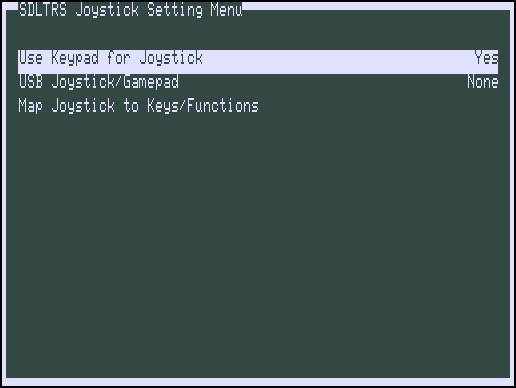
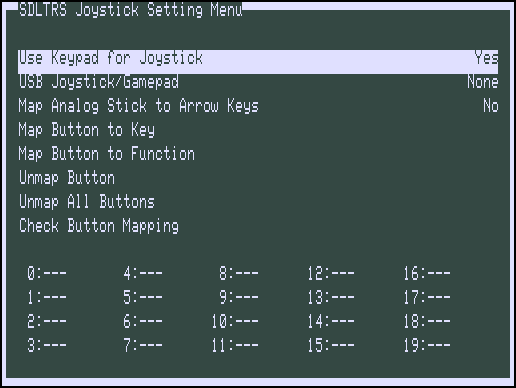
Update documentation and images

diff --git a/docs/TextGUI.html b/docs/TextGUI.html
@@ -41,14 +41,14 @@
 <p><img alt="" src="images/TextGUIMainMenu.png"></p>
 
 <p>The main menu is the entry point for the Text GUI. You may move up and down
-through the menu items using the arrow keys. The Home and End keys moves to
-the first or last menu item. Typing the first letter of a menu item marks it
-for selection. Pressing a number key from <b>0</b> to <b>9</b> jumps to the
-line in the menu. A menu item may be selected by pressing the <b>Enter</b>,
-<b>Space</b> or <b>Tab</b> key when the item is highlighted. Pressing
-<b>ESC</b> moves up a menu level (or exits the GUI if you are at the top
-level). Besides entering the GUI using <b>F7</b> or <b>Alt-M</b>, submenus may
-be entered by using the key shortcuts shown after the menu items.</p>
+through the menu items using the arrow keys. The <b>Home</b> and <b>End</b>
+keys moves to the first or last menu item. Typing the first letter of a menu
+item marks it for selection. Pressing a number key from <b>0</b> to <b>9</b>
+jumps to the line in the menu. A menu item may be selected by pressing the
+<b>Enter</b>, <b>Space</b> or <b>Tab</b> key when the item is highlighted.
+Pressing <b>ESC</b> moves up a menu level (or exits the GUI if you are at the
+top level). Besides entering the GUI using <b>F7</b> or <b>Alt-M</b>, submenus
+may be entered by using the key shortcuts shown after the menu items.</p>
 
 <h2><a name="Floppy_Disk_Management"></a><u>Floppy Disk Management</u></h2>
 
@@ -435,7 +435,7 @@ monitor.</p>
 
 <p><img alt="" src="images/TextGUIJoystickMenu.png"></p>
 
-<h3>Use Numeric Keypad for Joystick:</h3>
+<h3>Use Keypad for Joystick:</h3>
 
 <p>This item determines if the numeric keypad is used for emulation of a
 joystick.</p>
@@ -448,11 +448,11 @@ joysticks that SDL is aware of as shown below:</p>
 
 <p><img alt="" src="images/TextGUIJoystickSelectMenu.png"></p>
 
-<h3>Map Joystick to Keys/Functions:</h3>
+<h3>Map Button to Key/Function:</h3>
 
 <p><img alt="" src="images/TextGUIJoystickMap.png"></p>
 
-<p>This option allows the user to map keys or functions of SDLTRS to Joystick
+<p>These options allows the user to map keys or functions of SDLTRS to Joystick
 buttons. Use "Write Configuration File" in the <a href="#ConfigurationState">
 Configuration/State File Management</a> menu to save the mapping.</p>
 

diff --git a/docs/Options.html b/docs/Options.html
@@ -198,12 +198,12 @@ will be executed upon startup of the emulator.</p>
   <tr>
     <td><code>-huffman</code></td>
     <td>Enable emulation of the Dave Huffman (and other) memory expansion.
-        (<b>Disables "Alpha Technologies HyperMem"</b>)</td>
+        <b>Disables "Alpha Technologies HyperMem"</b>.</td>
   </tr>
   <tr>
     <td><code>-hypermem</code></td>
     <td>Enable emulation of the Alpha Technologies HyperMem memory expansion.
-        (<b>Disables "Dave Huffmann (and other)"</b>)</td>
+        <b>Disables "Dave Huffmann (and other)"</b>.</td>
   </tr>
   <tr>
     <td><code>-joysticknum num</code></td>
@@ -420,7 +420,7 @@ will be executed upon startup of the emulator.</p>
   <tr>
     <td><code>-selector</code></td>
     <td>Enable emulation of the TRS80 Users Society Selector memory expansion.
-        (<b>Disables "Alpha Technologies SuperMem"</b>)</td>
+        <b>Disables "Alpha Technologies SuperMem"</b>.</td>
   </tr>
   <tr>
     <td><code>-serial ttyname</code></td>
@@ -481,7 +481,7 @@ will be executed upon startup of the emulator.</p>
   <tr>
     <td><code>-supermem</code></td>
     <td>Enable emulation of the Alpha Technologies SuperMem memory expansion.
-        (<b>Disables "TRS80 Users Society Selector"</b>)</td>
+        <b>Disables "TRS80 Users Society Selector"</b>.</td>
   </tr>
   <tr>
     <td><code>-switches value</code></td>
